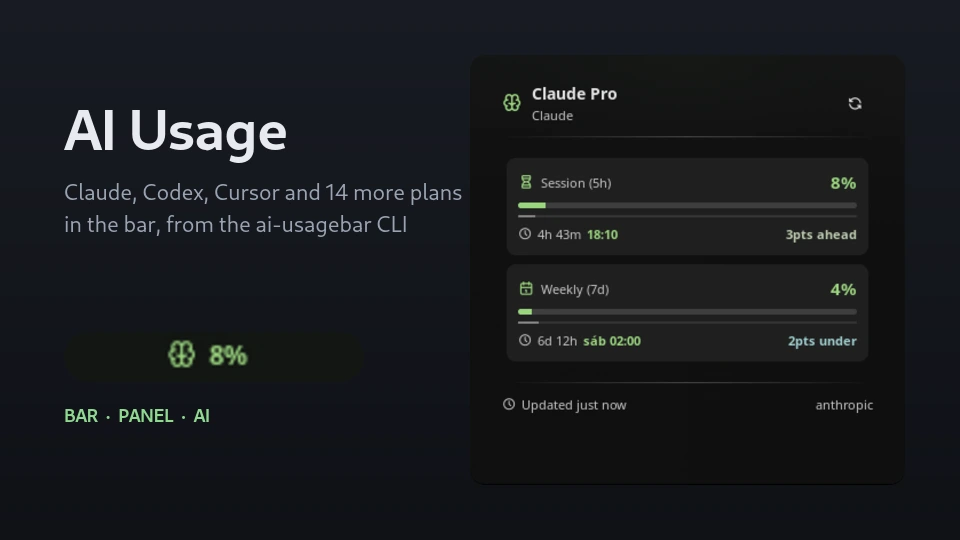
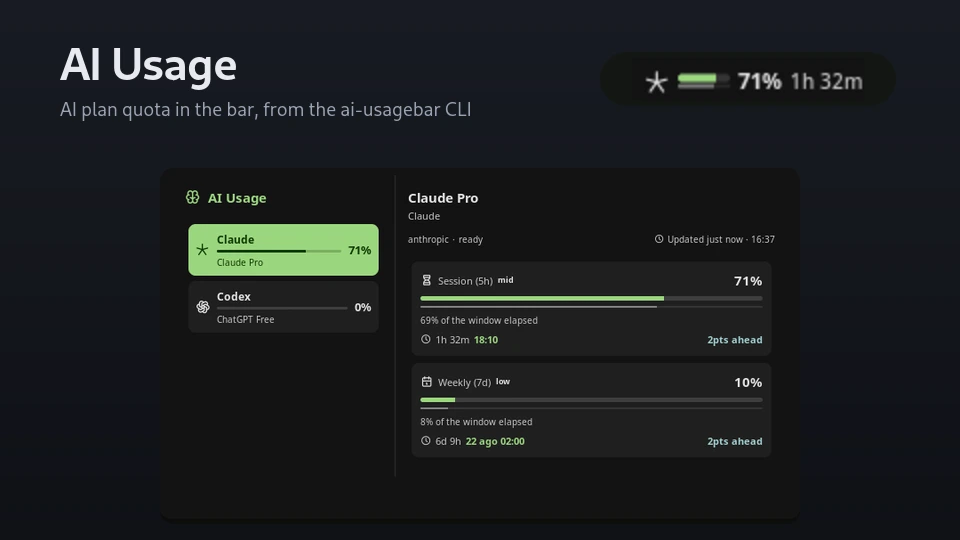
Use colours the shell actually has, and refresh the thumbnail
A probe of the four roles in a running panel showed warning and success
falling back to plain text: this build renders tertiary and error. The high
tier was therefore invisible. It now uses tertiary, which is what the QML
capsule used for the same tier, and the pace, stale and status marks follow.

The poller also refuses to start a process within two seconds of the last one,
since opening the panel now asks for a read and a panel can be opened as fast
as a pointer can click. Twenty requests in four seconds spawn one process.

The thumbnail was still the single column panel from before the rewrite.

diff --git a/ai-usagebar/README.md b/ai-usagebar/README.md
@@ -28,9 +28,9 @@ endpoints, and this plugin never sees them.
 
 Add `felipeartur/ai-usagebar:bar` to a bar in Settings, Bar. The capsule shows
 the headline percentage of a provider, behind that provider's icon. It reads in
-the bar's own colour while there is room, turns `warning` when the CLI calls the
-window high, and `error` when it calls it critical. The accent stays on the
-gauge fill, so a calm capsule looks like the widgets beside it.
+the bar's own colour while there is room, picks up the theme's `tertiary` when
+the CLI calls the window high, and `error` when it calls it critical. The accent
+stays on the gauge fill, so a calm capsule looks like the widgets beside it.
 
 Left on `Automatic`, the capsule follows the busiest provider, so what sits in
 the bar is the plan closest to running out. Raise `provider_limit` and it
@@ -117,7 +117,7 @@ Per widget instance, so two capsules can follow two providers:
 | `provider_limit` | `int` | `1` | How many providers one capsule carries, busiest first, from 1 to 4. Only applies on `auto`. |
 | `extras` | `select` | `countdown` | What rides beside the percentage: `countdown`, `pace`, `both` or `none`. |
 | `show_name` | `bool` | `false` | Adds the product name, so two capsules do not look alike. |
-| `color_by_usage` | `bool` | `true` | Off drops the `warning` and `error` tint, so the capsule never changes colour. |
+| `color_by_usage` | `bool` | `true` | Off drops the high and critical tint, so the capsule never changes colour. |
 
 ## IPC
 
